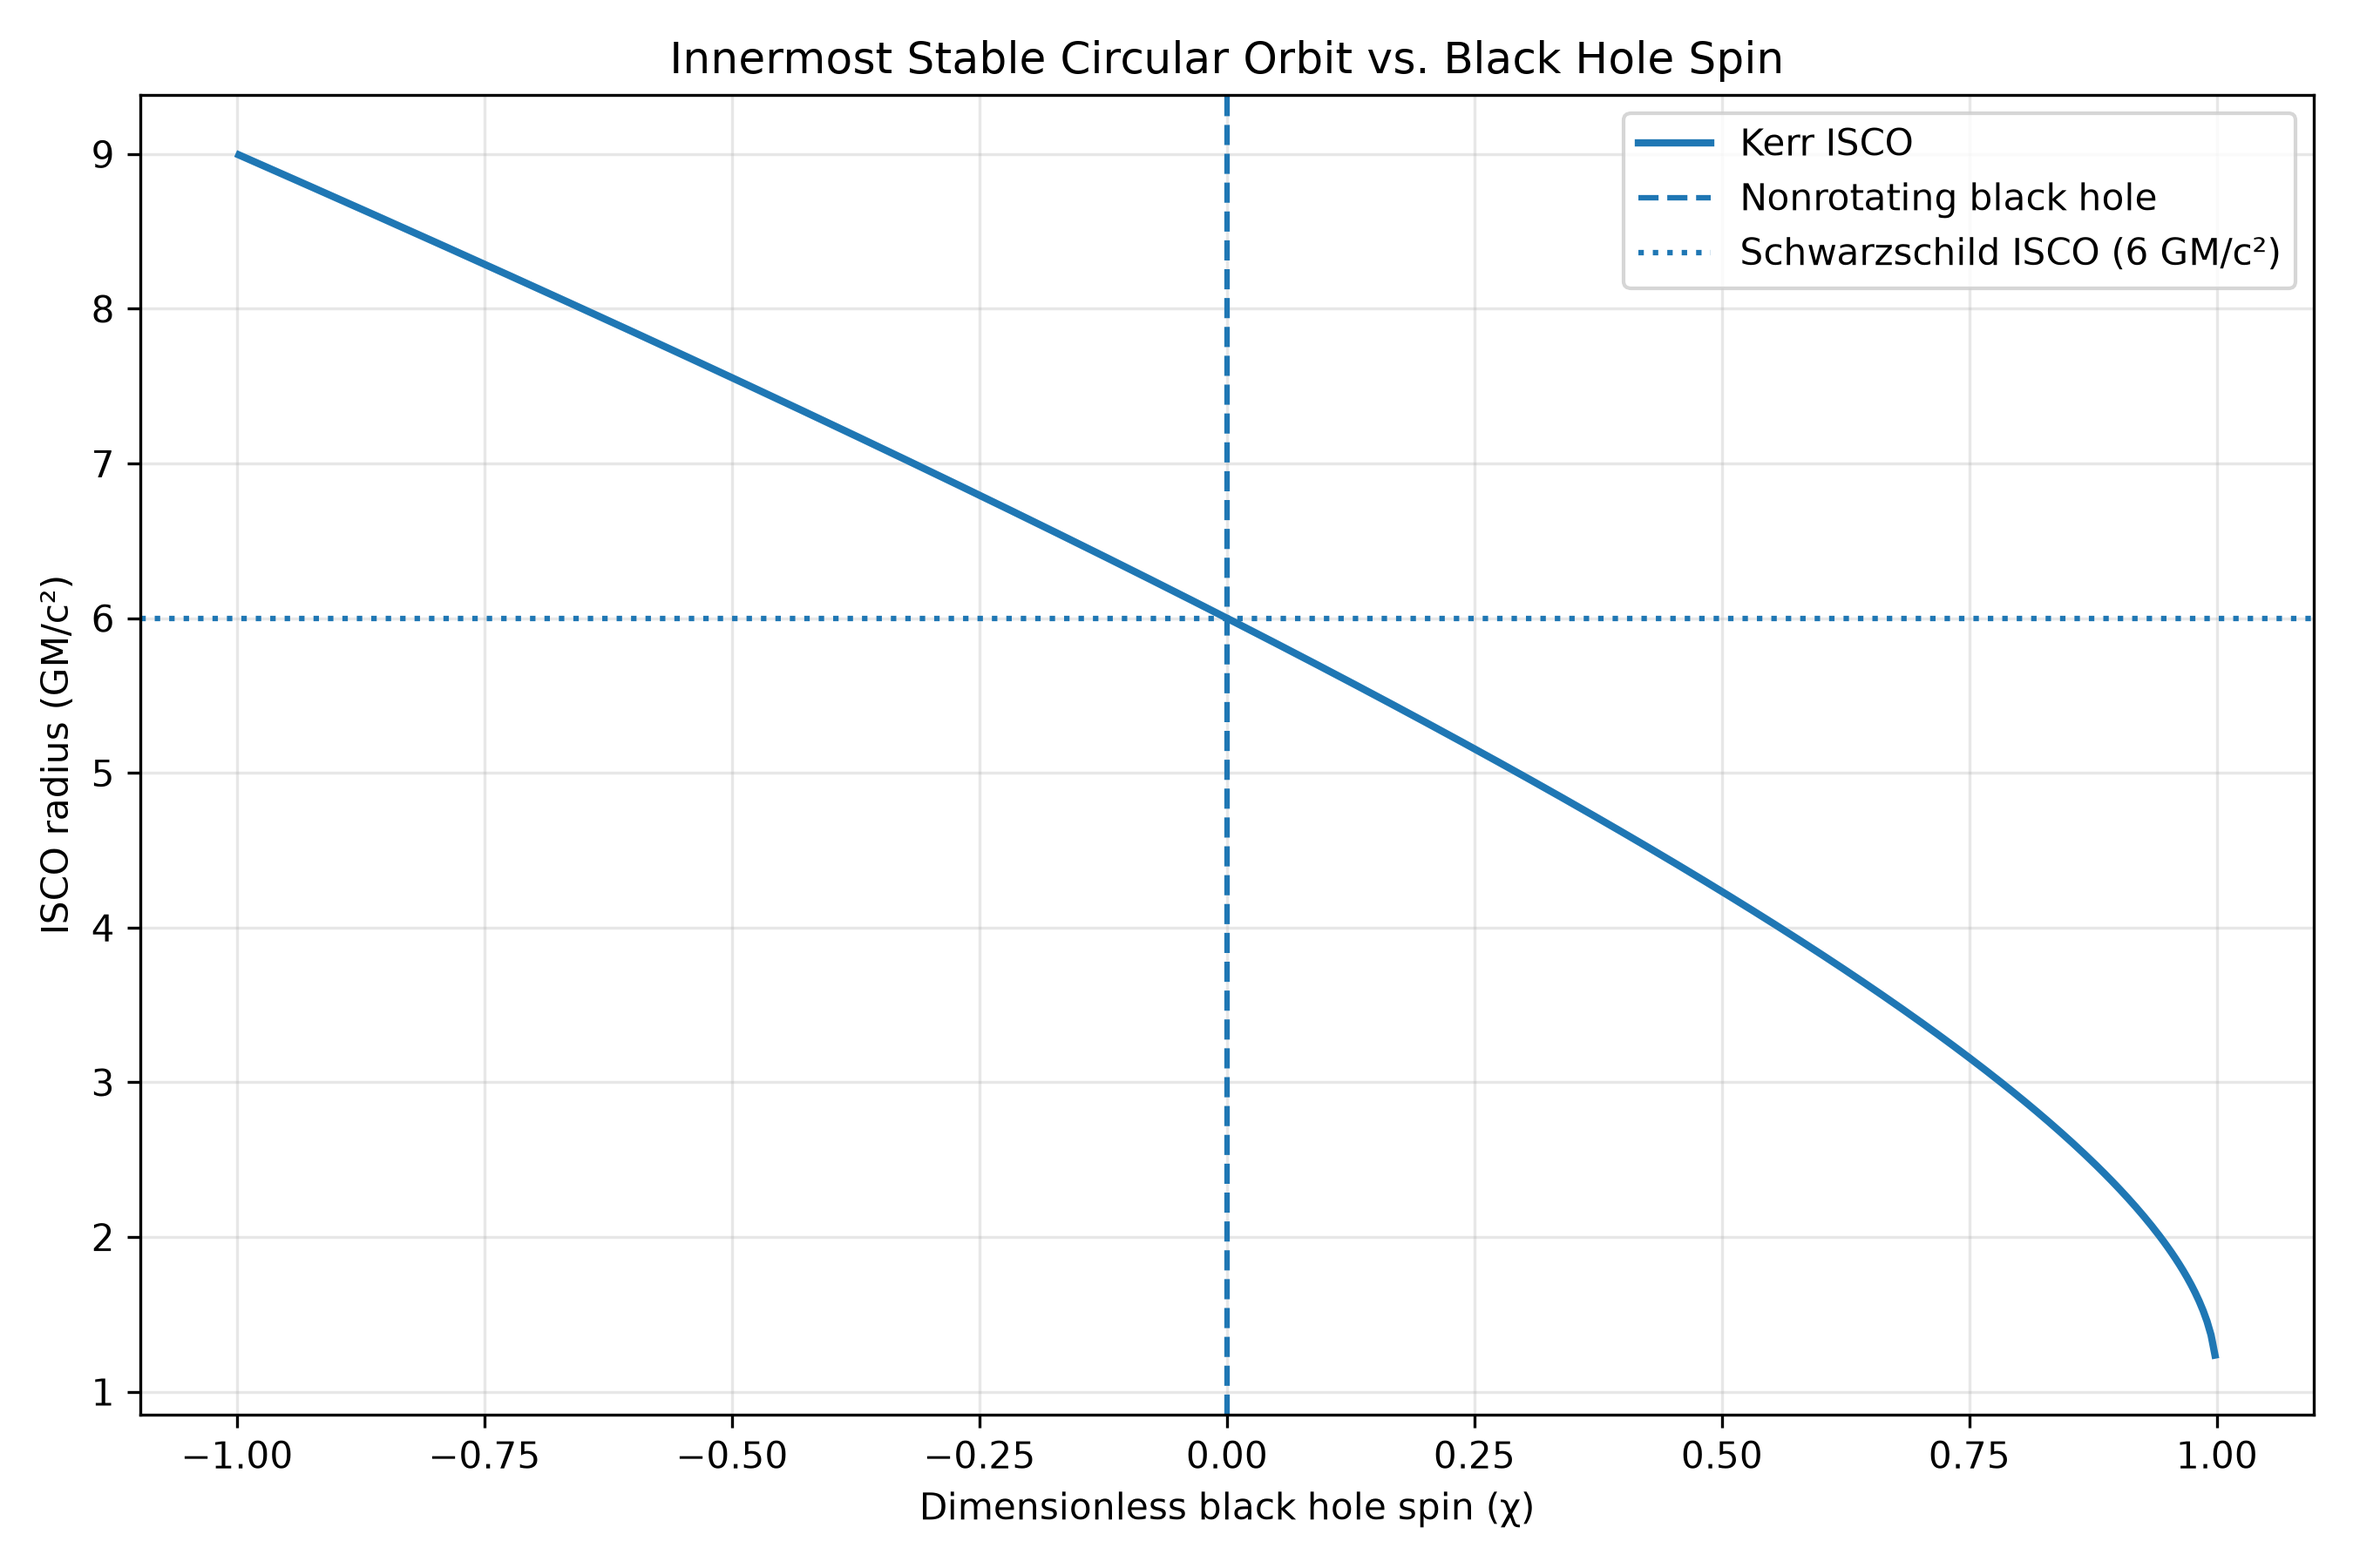
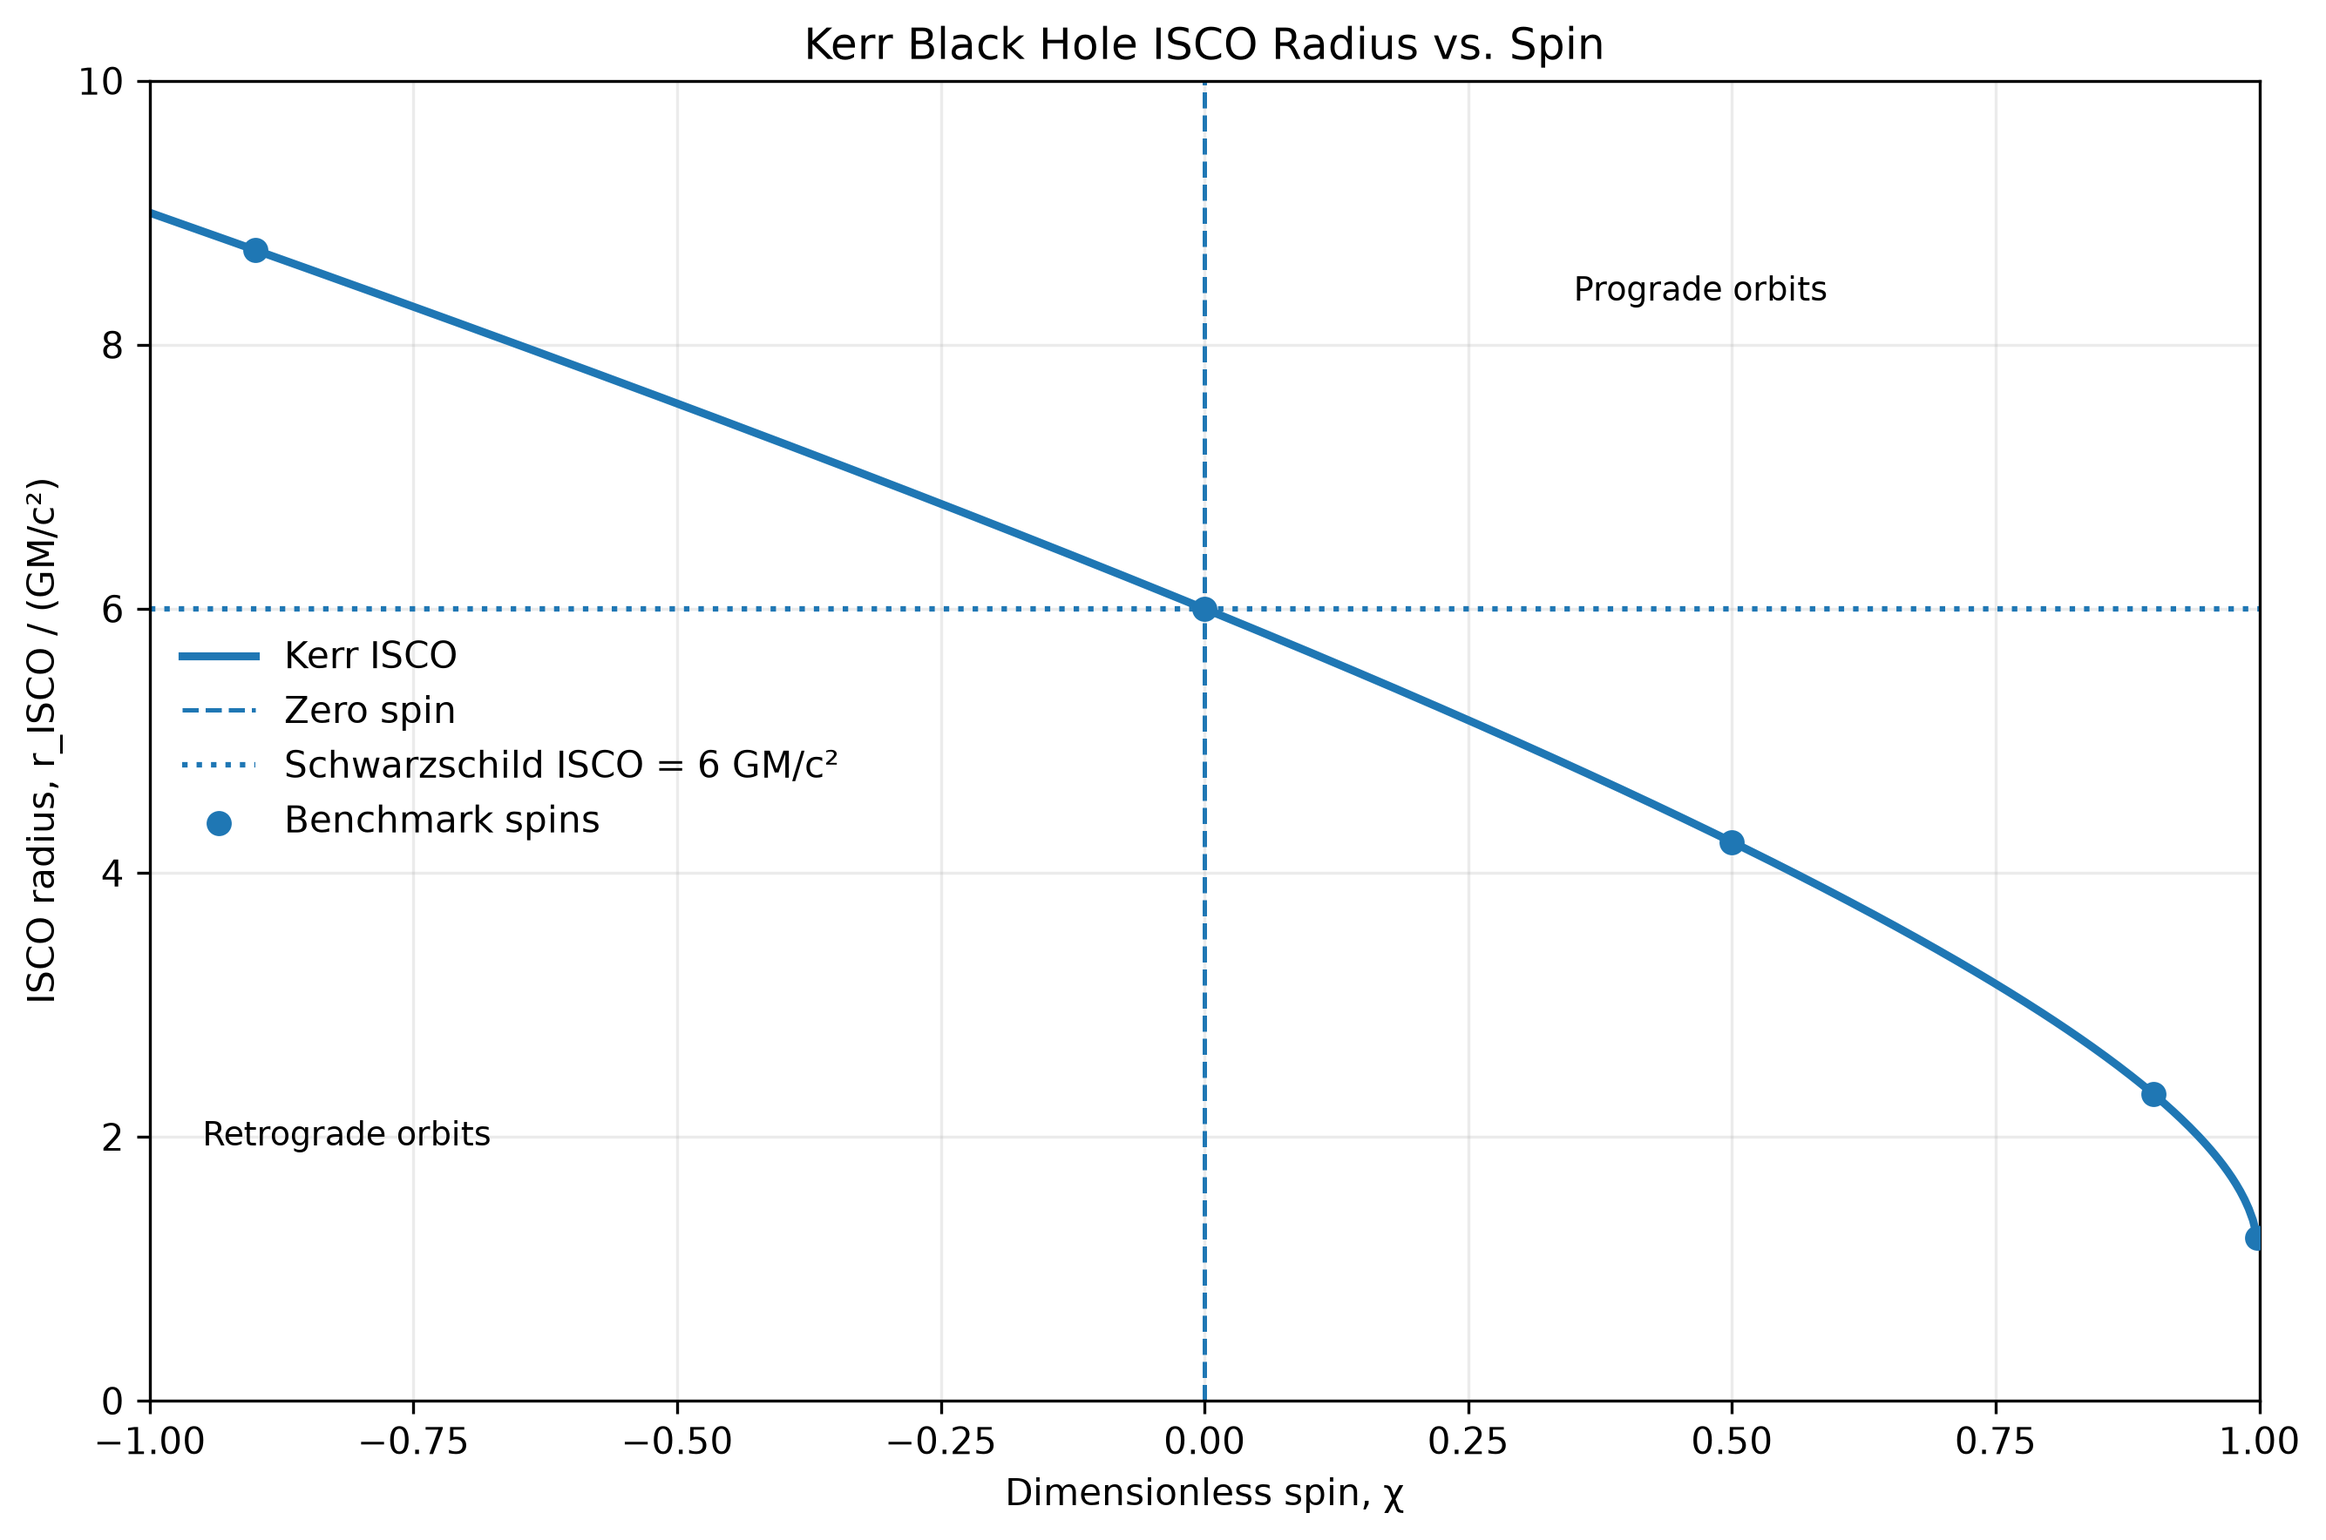
Improve ISCO spin visualization

diff --git a/plot_ISCO.py b/plot_ISCO.py
@@ -1,9 +1,11 @@
 
 """
-Plot the ISCO radius as a function of Kerr black hole spin.
+Plot the Kerr black hole ISCO radius as a function of spin.
 
 Run with:
-    python plot_isco.py
+    python plot_ISCO.py
+
+The radius is expressed in units of GM/c^2.
 """
 
 import numpy as np
@@ -15,53 +17,87 @@ from ISCO import calculate_isco
 def main():
     """Calculate and plot ISCO radii across a range of spins."""
 
-    # Dimensionless spin values, avoiding exact extremal endpoints.
+    # Avoid exact extremal endpoints for a clean continuous plot.
     spins = np.linspace(-0.998, 0.998, 500)
 
-    # Calculate ISCO radius for each spin.
     isco_radii = np.array([
         calculate_isco(float(spin))
         for spin in spins
     ])
 
-    # Create the figure.
-    plt.figure(figsize=(9, 6))
+    # Create figure.
+    fig, ax = plt.subplots(figsize=(9, 6))
 
-    plt.plot(
+    ax.plot(
         spins,
         isco_radii,
-        label="Kerr ISCO",
-        linewidth=2
+        linewidth=2.2,
+        label="Kerr ISCO"
     )
 
-    # Reference lines.
-    plt.axvline(
+    # Nonrotating black hole reference.
+    ax.axvline(
         0,
         linestyle="--",
-        label="Nonrotating black hole"
+        linewidth=1.2,
+        label="Zero spin"
     )
 
-    plt.axhline(
+    ax.axhline(
         6,
         linestyle=":",
-        label="Schwarzschild ISCO (6 GM/c²)"
+        linewidth=1.5,
+        label="Schwarzschild ISCO = 6 GM/c²"
     )
 
-    # Labels and formatting.
-    plt.xlabel("Dimensionless black hole spin (χ)")
-    plt.ylabel("ISCO radius (GM/c²)")
-    plt.title("Innermost Stable Circular Orbit vs. Black Hole Spin")
+    # Mark selected benchmark spin values.
+    benchmark_spins = [-0.9, 0.0, 0.5, 0.9, 0.998]
+    benchmark_radii = [
+        calculate_isco(spin) for spin in benchmark_spins
+    ]
 
-    plt.grid(True, alpha=0.3)
-    plt.legend()
-    plt.tight_layout()
+    ax.scatter(
+        benchmark_spins,
+        benchmark_radii,
+        s=35,
+        zorder=3,
+        label="Benchmark spins"
+    )
 
-    # Save the figure.
-    plt.savefig("isco_vs_spin.png", dpi=300)
+    # Explain the two sides of the spin axis.
+    ax.text(
+        -0.95, 2.0,
+        "Retrograde orbits",
+        ha="left",
+        va="center",
+        fontsize=9
+    )
+
+    ax.text(
+        0.35, 8.4,
+        "Prograde orbits",
+        ha="left",
+        va="center",
+        fontsize=9
+    )
+
+    # Axis labels and title.
+    ax.set_xlabel("Dimensionless spin, χ")
+    ax.set_ylabel("ISCO radius, r_ISCO / (GM/c²)")
+    ax.set_title("Kerr Black Hole ISCO Radius vs. Spin")
+
+    ax.set_xlim(-1.0, 1.0)
+    ax.set_ylim(0, 10)
+
+    ax.grid(True, alpha=0.25)
+    ax.legend(frameon=False)
+    fig.tight_layout()
+
+    # Save at high resolution.
+    fig.savefig("isco_vs_spin.png", dpi=300, bbox_inches="tight")
 
     print("Graph saved as isco_vs_spin.png")
 
-    # Display the graph.
     plt.show()
 
 
